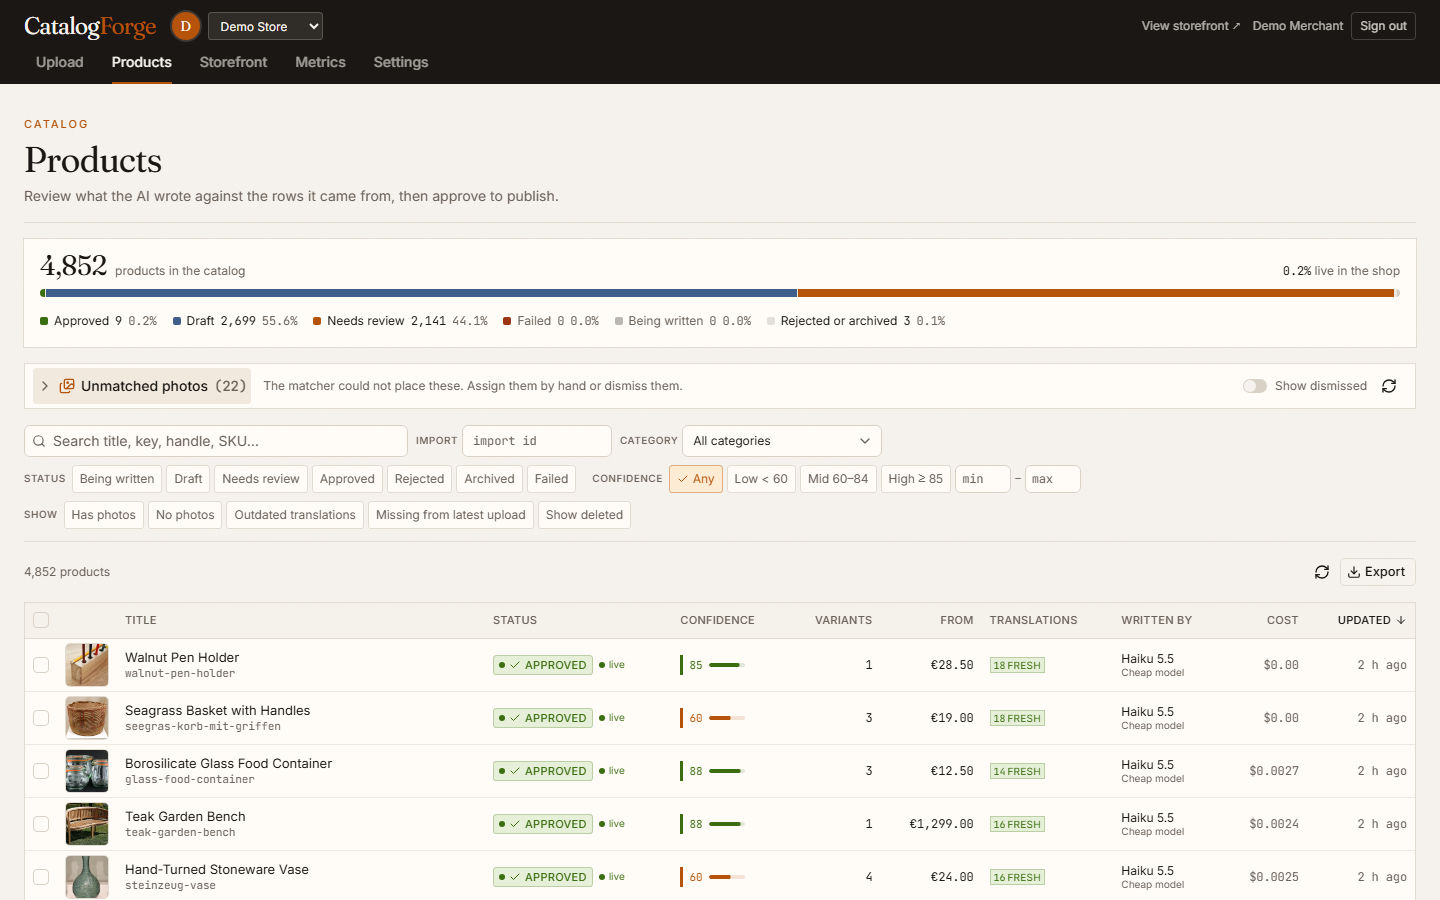
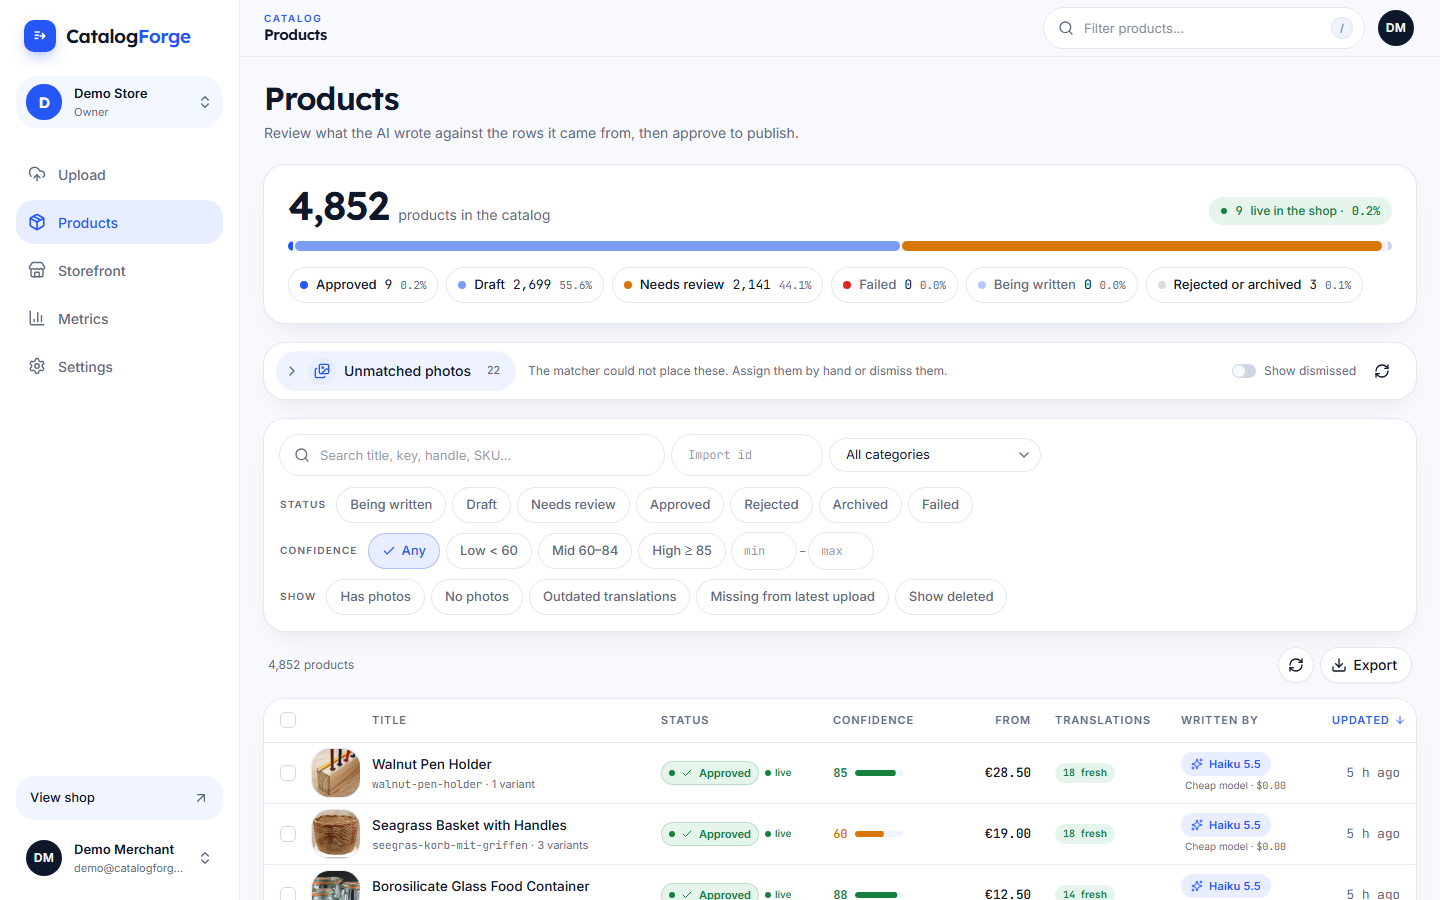
docs: screenshots and README for the rebuilt landing, dashboard and shop

diff --git a/README.md b/README.md
@@ -146,7 +146,7 @@ Local machine, Docker Postgres. The first block uses the demo provider (determin
 ![The shop: collection page with real product photos](docs/screenshots/09-storefront.png)
 ![The shop: product page](docs/screenshots/10-storefront-product.png)
 
-- **Landing (`/`):** the real German row 8 of `new-12.csv`, mojibake and all, beside the listing CatalogForge published from it in the demo shop, switching between English, German and French with the claims it verified; a marquee of the demo shop's real published products, read through the storefront's own 30 s cache; "How it works" as a scroll story whose middle step replays the real event log of the sample import on a compressed clock; a thin line that traces the visitor's scroll to the foot of the page; eight real messes from the samples shown before and after the cleaner; a "try the cleaner" strip that runs the import's own `src/core/clean` code in the browser on whatever the visitor types; a figures band (measured numbers plus counts from the repository, such as the edge cases and tests at the time of writing) with how each one is taken; and a feature grid. A signed-in merchant sees the same page with an "Open dashboard" button.
+- **Landing (`/`):** a floating nav, a centred headline that arrives word by word, and a hero object: the listing CatalogForge published from the real German row 8 of `new-12.csv` (switching between English, German and French with the claims it verified) with the raw row tilted behind it and floating chips tethered by thin lines over a blue glow. Then a bento of the eight true features around a panel that replays the real event log of the sample import, three feature panels with real screenshots, eight real messes shown before and after the cleaner, a "try the cleaner" strip that runs the import's own `src/core/clean` code in the browser, a figures band (measured numbers and counts from the repository at the time of writing), a "works with" row, a marquee of the demo shop's real products read through the storefront's own cache, a closing panel and an explore grid. A thin line traces the visitor's scroll to the foot of the page. A signed-in merchant sees the same page with an "Open dashboard" button.
 - **Upload:** opens on "Your store right now": products live in the shop, waiting for review, imports in the last 7 days and AI spend in the last 30, each with a 14-day sparkline from the tables of record, plus a "Live now" panel that follows a running import stage by stage. Then an illustrated drop zone for sheet + photos/ZIP, Fast vs Economy, budget, the publish-automatically switch, live SSE progress with a stage stepper, KPIs, sheet mapping, event log and a filterable per-row table with issues and reasons. Also accepts a `mysqldump` / `pg_dump` of a product table (`.sql`, parsed in memory, never executed) and a pasted public Google Sheets link, fetched from docs.google.com only, which then follows the exact same path as an uploaded file. The import page draws a data-hygiene flow: per stage, what the deterministic pipeline did (duplicates collapsed, mojibake and unsafe HTML repaired, prices and units normalised, conflicts and possible duplicates, routing by tier, response-cache hits, claims verified or blocked), every count taken from the tables of record.
 - **Products:** a status strip under the title (one stacked bar of approved, draft, needs review, failed and being written, each a filter), then a server-side paginated table (10/25/50/100) with 44 px thumbnails, status pills with an icon, confidence as a number plus a mini bar, sorting, search, status and confidence filters, colour-coded confidence with the number always shown, bulk approve with an explicit opt-in for products that need review, bulk "Re-run AI" on a selection with a chosen model tier and prompt version (one audited job per product; products without source rows are skipped and counted), CSV / JSON / Shopify CSV export. An "Unmatched photos" tray above the table lets the merchant assign an orphan photo to any product (search by title, handle or SKU) or dismiss it; assignment is audited and updates a live product's storefront images at once.
 - **Review drawer:** source rows and photos beside the editable listing; every verified claim is a chip that, on hover or pin, marks the exact quoted words in the source cell; everything the grounding validator blocked is a Guardrail badge ("Blocked 'frost-proof' — source says 'not frost-proof', Row 14 · Notes") pointing at the negation as the supplier wrote it; a "Show cleaning" toggle lists what the cleaner changed before the AI saw the row (raw price cell → cents, units → cm and g, HTML → text, mojibake repairs, colour matches); photos carry their match method and score; optimistic-version saves; translations per locale with manual fixes and Out-of-date flags; approve, send back, reject, re-run with a different model or prompt version, delete/restore.
